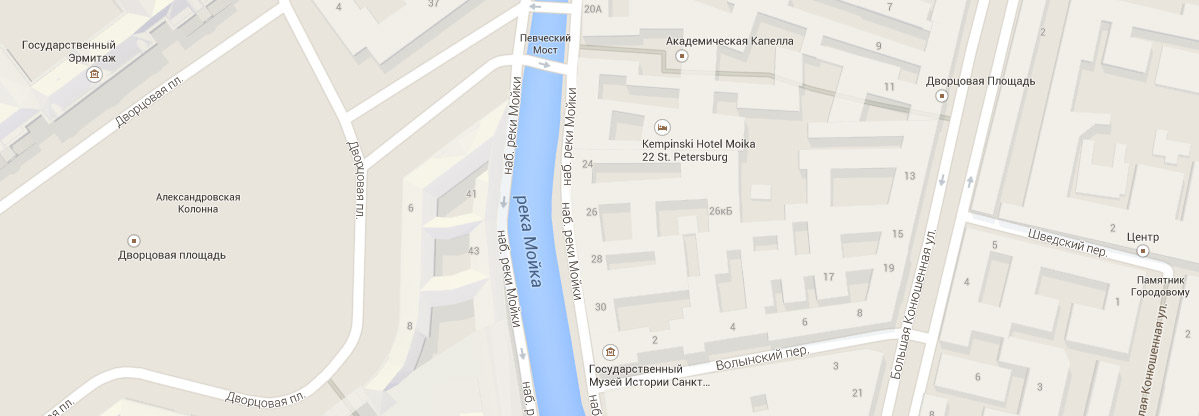
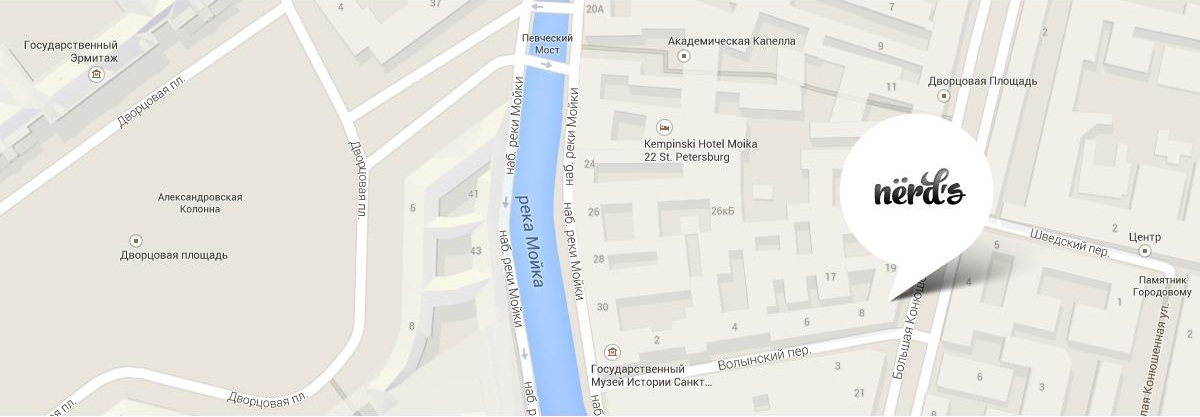
доработки

diff --git a/css/style.css b/css/style.css
@@ -50,7 +50,7 @@ h2 {
 }
 
 .main-navigation {
-  width: 450px;
+  width: 470px;
   float: left;
   text-decoration: none;
   margin-left: 50px;
@@ -116,6 +116,7 @@ h2 {
   opacity: 1;
   border: none;
 }
+
 
 .sort-elements span,
 .sort-elements a {
@@ -440,7 +441,7 @@ h2 {
 }
 
 .title h1 {
-  margin-bottom: 21px;
+  margin-bottom: 16px;
   letter-spacing: 0.1px;
 }
 
@@ -456,7 +457,7 @@ h2 {
 .content-list li {
   list-style: none;
   position: relative;
-  line-height: 45px;
+  line-height: 44px;
 }
 
 .content-list li::before {
@@ -475,7 +476,7 @@ h2 {
 .about-us-content-right {
   float: right;
   width: 240px;
-  padding-top: 61px;
+  padding-top: 58px;
   padding-bottom: 45px;
 }
 
@@ -553,8 +554,7 @@ text-align: center;
   position: relative;
   background: transparent
  url("../img/map.jpg") no-repeat;
-  background-position: 246px 1px; 
-  z-index: -2;
+  background-position: 353px 1px; 
 }
 
 .map .container {
@@ -602,20 +602,6 @@ text-align: center;
 .map-contacts h2 {
   letter-spacing: 0.1px;
 }
-
-.marker {
-  float: right;
-  width: 231px;
-  height: 190px;
-  position: absolute;
-  right: 372px;
-  top: 114px;
-  background: transparent
- url("../img/marker-map.png") no-repeat;
-  z-index: 0;
-  display: none;
-}
-
 
 .footer-social {
   float: left;
@@ -1028,14 +1014,15 @@ input[type="radio"]:checked + label::after {
 .catalog-item-desc {
   overflow: hidden;
   position: absolute;
-  top: 20px;
+  top: 21px;
   background-color: #ffffff;
   width: 200px;
-  right: 20px;
+  right: 19px;
   text-align: center;
   height: 200px;
   box-sizing: border-box;
   max-height: 200px;
+  text-overflow: ellipsis;
 }
 
 
@@ -1052,8 +1039,10 @@ input[type="radio"]:checked + label::after {
   display: block;
   text-transform: uppercase;
   font-size: 18px;
-  margin-top: 36px;
+  margin-top: 34px;
   margin-bottom: 16px;
+  margin-right: 10px;
+  margin-left: 10px;
 }
 
 .catalog-item-desc p {
@@ -1063,6 +1052,11 @@ input[type="radio"]:checked + label::after {
   letter-spacing: -0,2px;
   margin-left: 5px;
   margin-top: -4px;
+  overflow: hidden;
+  text-overflow: ellipsis;
+  height: 50px;
+  width: 162px;
+  margin-left: 20px;
 }
 
 
@@ -1198,11 +1192,12 @@ text-align: center;
 }
 
 .paginator a:first-child:active {
-  background-color: #ffffff;
+   background-color: #ffffff;
   border: 2px #f1f1f1 solid;
   min-width: 34px;
   height: 34px;
   line-height: 34px;
+  box-shadow: none;
 }
 
 

diff --git a/catalog.html b/catalog.html
@@ -134,7 +134,7 @@
                 </a>
               </li>
               <li>  
-                <a href="#" class="active">
+                <a href="#"  class="active">
                   По типу
                 </a>
               </li>
@@ -263,8 +263,8 @@
       </div>   
     </div>  
   </main>
-  <div class="map">
-      <div class="marker">
+   <div class="map">
+     <div class="marker">
           
       </div>
       <div class="map-frame">
